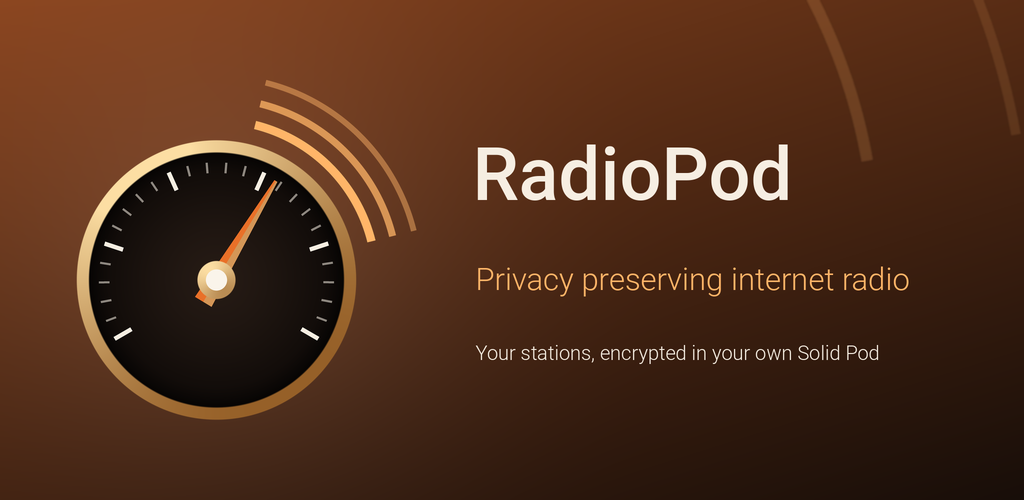
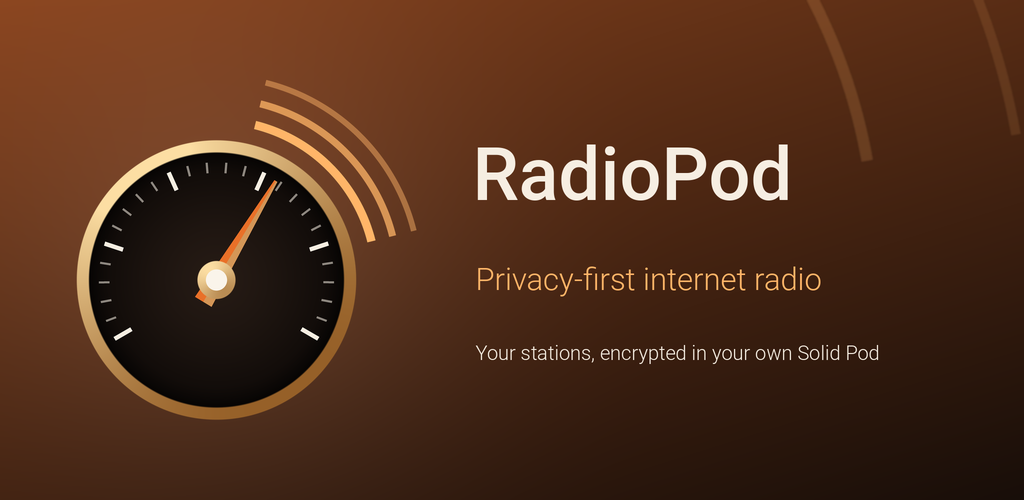
Word smith

Changed region(s): [[0.5625, 0.54, 0.9062, 0.6]]

diff --git a/lib/constants/app.dart b/lib/constants/app.dart
@@ -1,6 +1,6 @@
 /// RadioPod - app-wide constants.
 ///
-// Time-stamp: <Saturday 2026-09-20 06:00:00 +1000 Graham Williams>
+// Time-stamp: <Tuesday 2026-10-06 07:11:51 +1100 Graham Williams>
 ///
 /// Copyright (C) 2026, Togaware Pty Ltd
 ///
@@ -33,7 +33,7 @@ const appName = 'RadioPod';
 
 /// Application title displayed as the window title.
 
-const String appTitle = 'RadioPod - Listen to Internet Radio';
+const String appTitle = 'RadioPod - Privacy-First Internet Radio';
 
 /// App directory name used by solidpod for storage paths.
 

diff --git a/support/make_banner.py b/support/make_banner.py
@@ -85,7 +85,7 @@ TITLE = 'RadioPod'
 # summary. "player" is dropped from that wording: it adds nothing after
 # "radio" and the line has to sit within the banner.
 
-TAGLINE = 'Privacy preserving internet radio'
+TAGLINE = 'Privacy-first internet radio'
 
 # How, in one line, under the claim above.
 

diff --git a/README.md b/README.md
@@ -1,4 +1,4 @@
-# RadioPod - Internet Radio for your Secure and Private Solid Pod Data
+# RadioPod - Privacy-First Internet Radio
 
 [![Flutter](https://img.shields.io/badge/Flutter-%2302569B.svg?style=for-the-badge&logo=Flutter&logoColor=white)](https://flutter.dev)
 [![Dart](https://img.shields.io/badge/dart-%230175C2.svg?style=for-the-badge&logo=dart&logoColor=white)](https://dart.dev)
@@ -10,19 +10,26 @@
 [![Github Last Updated](https://img.shields.io/github/last-commit/gjwgit/radiopod?label=last%20updated)](https://github.com/gjwgit/radiopod/commits/dev/)
 [![GitHub Issues](https://img.shields.io/github/issues/gjwgit/radiopod)](https://github.com/gjwgit/radiopod/issues)
 
+Privacy-first: your data encrypted to be securely and privately stored
+on your Solid Pod, not on our servers.
+
 [RadioPod](https://gjwgit.github.io/radiopod/) plays internet radio.
-It is a simple, privacy-first, alternative to apps like
-[Transistor](https://f-droid.org/packages/org.y20k.transistor/),
-[Shortwave](https://snapcraft.io/shortwave), and others. You can
-search for stations in the community-run
-[Radio-Browser](https://www.radio-browser.info) database, group them
-into playlists, and listen on your phone, in the car through Apple Car
-Play or Android Auto, or at your desk. Your station library and your
-playlists are stored locally or, if you log in, are stored encrypted
-in your own personal online data store
-([Pod](https://solidproject.org/about)) where nobody, not even the
-server administrator, can see your station library or your
-playlists.
+It is a simple privacy-first alternative to apps like
+[Transistor](https://f-droid.org/packages/org.y20k.transistor/) and
+[Shortwave](https://snapcraft.io/shortwave). Find stations in the
+community-run [Radio-Browser](https://www.radio-browser.info)
+database, group them into playlists, and listen — at your desk, on
+your phone, or in the car through Apple CarPlay or Android Auto.
+
+Your station library and your playlists are stored locally or else are
+encrypted and privately stored in your own personal online data store
+([Pod](https://solidproject.org/about)) within a Data Vault hosted by
+a Solid Server of your choice.  Pod-stored data is available on any of
+your devices to share your station library and playlists while being
+protected against server administrator access and server breaches.
+
+Playlists can be imported and exported using the M3U or PLS open
+formats that every other radio player reads and writes.
 
 Solid Pods are a new approach to handling your personal data on the
 World Wide Web and is the latest innovation from the inventor of the
